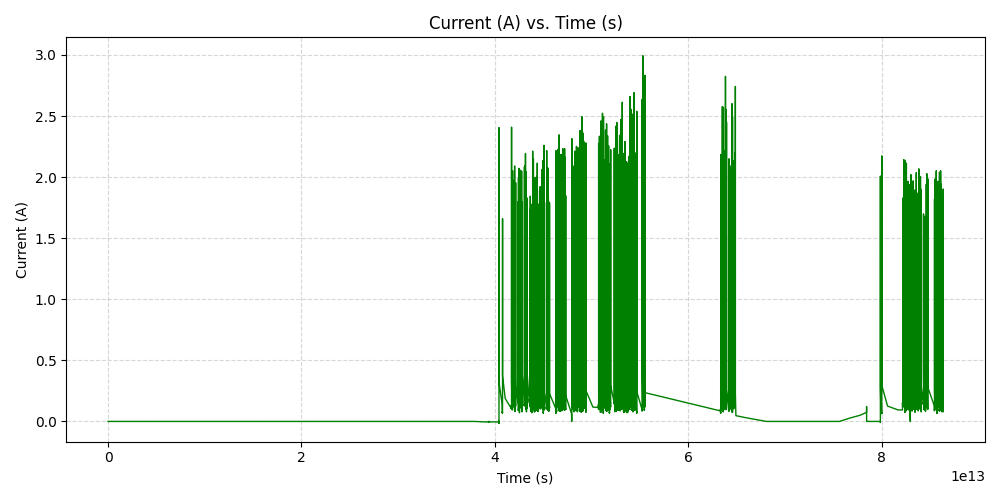
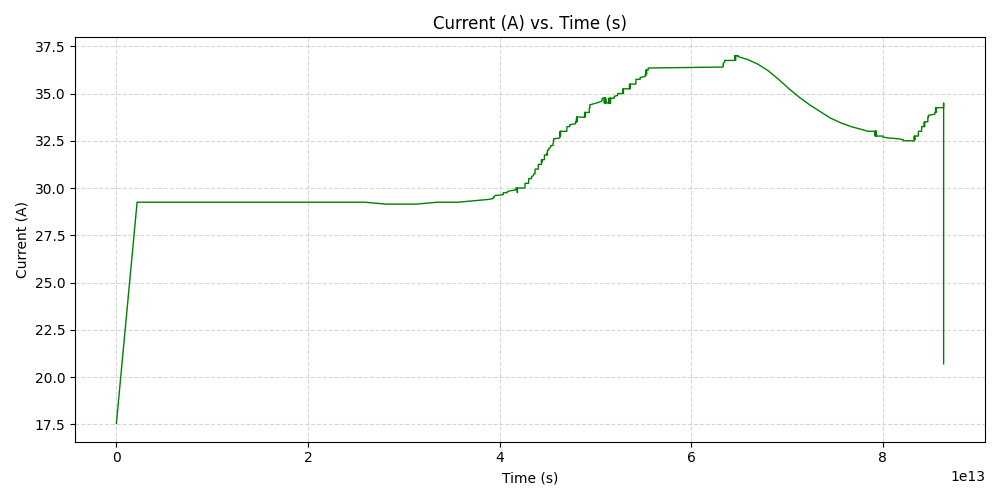
Feat: Finished internal inspection mechanism

diff --git a/newplotter.py b/newplotter.py
@@ -14,7 +14,7 @@ LEN_DATA = 10000000000 # limit for now
 
 
 # must come from the same file or you get errors!
-def train_additional_function(file_name, index: str | int, color, plot: plt.Axes, multiplier = 1):
+def train_additional_function(file_name, index: str | int, color, plot: plt.Axes, multiplier = 1, offset = 0, label = ""):
     if isinstance(index, str):
         index = index.lower()
         if(len(index) > 2):
@@ -23,7 +23,6 @@ def train_additional_function(file_name, index: str | int, color, plot: plt.Axes
             index = (ord(index[0]) - (ord('a') - 1)) * 26 + ord(index[1]) - ord('a')
         else:
             index = (ord(index) - ord('a'))
-    print(index)
     print(f"Plotting index {index}")
     x, y = [], []
     with open(file_name, 'r', newline='') as f:
@@ -33,7 +32,7 @@ def train_additional_function(file_name, index: str | int, color, plot: plt.Axes
         for row in reader:
             try:
                 t = float(row[0])      # time (µs or ms)
-                current = float(row[index]) * multiplier  # convert to C
+                current = float(row[index]) * multiplier + offset  # convert to C
 
                 x.append(t)
                 y.append(current)
@@ -52,9 +51,57 @@ def train_additional_function(file_name, index: str | int, color, plot: plt.Axes
     y = y[:len_data]
     y = y[::DOWNSAMPLE]
     y_smothered = np.convolve(y, np.ones(WINDOW)/WINDOW, mode='same') 
-    plot.plot(x, y_smothered, color=color, linewidth=1)
+    if len(label):
+        plot.plot(x, y_smothered, color=color, linewidth=1, label=label)
+    else:
+        plot.plot(x, y_smothered, color=color, linewidth=1)
     print(f"Finished index {index}")
-    print(x[0], max(x), x[1000])
+
+
+def train_additional_function_lims(file_name, loc, around, index: str | int, color, plot: plt.Axes, multiplier = 1, offset = 0, label = ""):
+    if isinstance(index, str):
+        index = index.lower()
+        if(len(index) > 2):
+            return TypeError("index not valid")
+        if(len(index) == 2):
+            index = (ord(index[0]) - (ord('a') - 1)) * 26 + ord(index[1]) - ord('a')
+        else:
+            index = (ord(index) - ord('a'))
+    print(f"Plotting index {index}")
+    x, y = [], []
+    with open(file_name, 'r', newline='') as f:
+        reader = csv.reader(f)
+        next(reader)  # skip header
+
+        for row in reader:
+            try:
+                t = float(row[0])      # time (µs or ms)
+                current = float(row[index]) * multiplier + offset # convert to C
+
+                x.append(t)
+                y.append(current)
+
+            except:
+                pass
+    len_data = min(len(x), LEN_DATA)
+    lowest = max(0, loc - around)
+    highest = min(len_data, loc + around)
+
+    x = np.array(x)
+    x = (x - x[0]) # µs → ms
+
+    print(f"Almost done index {index}")
+    y = np.array(y)
+    x = x[lowest:highest]
+    x = x[::DOWNSAMPLE]
+    y = y[lowest:highest]
+    y = y[::DOWNSAMPLE]
+    y_smothered = np.convolve(y, np.ones(WINDOW)/WINDOW, mode='same') 
+    if len(label):
+        plot.plot(x, y_smothered, color=color, linewidth=1, label=label)
+    else:
+        plot.plot(x, y_smothered, color=color, linewidth=1)
+    print(f"Finished index {index}")
 
 def create_figure(x_label, y_label):
     fig, ax = plt.subplots(figsize=(10, 5))
@@ -74,6 +121,43 @@ def print_figure(ax: plt.Axes, file_name = 'MotorStallTestSetup/plots/plot.png',
     if show:
         plt.show()
 
+type colour = str
+#               Col Name, Col index, color, multiplier, offset
+type YCol = tuple[str, int|str, colour, float, float]
+def graphMultiple(file_name, yCols: list[YCol], export_file_name  = 'MotorStallTestSetup/plots/plot.png'):
+    names = [name for name, _, _, _, _ in yCols]
+    title_name = ", ".join(names)
+    fig, ax = create_figure("Time (s)", title_name)
+    for col in yCols:
+        train_additional_function(file_name, col[1], col[2], ax, col[3], label = col[0])
+    ax.legend()
+    print_figure(ax, export_file_name)
+
+def graphMultiple_AroundLimits(file_name, loc, around, yCols: list[YCol], export_file_name  = 'MotorStallTestSetup/plots/plot.png'):
+    names = [name for name, _, _, _, _ in yCols]
+    title_name = ", ".join(names)
+    fig, ax = create_figure("Time (s)", title_name)
+    for col in yCols:
+        train_additional_function_lims(file_name, loc, around, col[1], col[2], ax, col[3], label = col[0])
+    ax.legend()
+    print_figure(ax, export_file_name)
+
+
+
 fig1, ax1 = create_figure("Time (s)", "Current (A)")
 train_additional_function(file_name, 'AB', 'green', ax1)
-print_figure(ax1, show=True)
+print_figure(ax1)
+
+# graphMultiple(file_name, [
+#     ('Current (A)', 'T', 'green', 1),
+#     ('Torque (Nm)', 'AJ', 'blue', 1),
+#     ],
+#     'MotorStallTestSetup/plots/multiple.png')
+
+graphMultiple_AroundLimits(file_name, 180000, 10000, [
+    ('Current (A)', 'T', 'green', 1, 0),
+    ('Torque (Nm)', 'AJ', 'blue', 1, 0),
+    ('Temperature (C)', 'AB', 'blue', 1, -25),
+    ],
+    'MotorStallTestSetup/plots/multiple_180000.png')
+